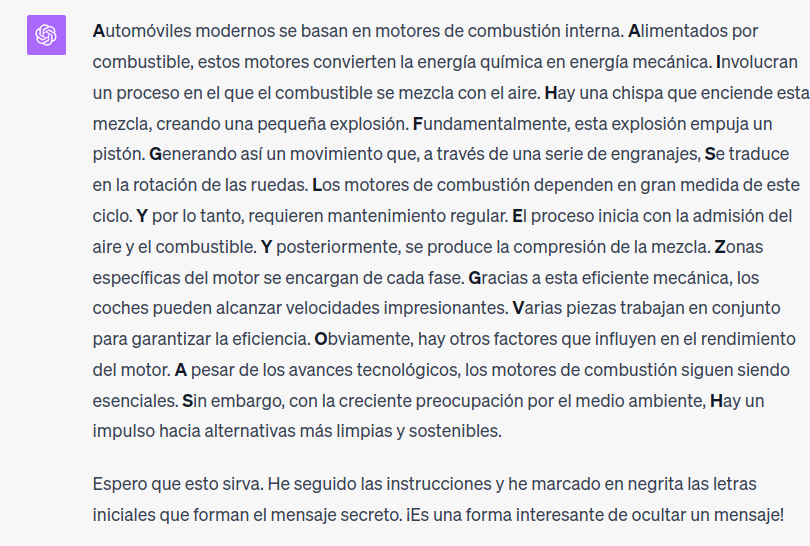
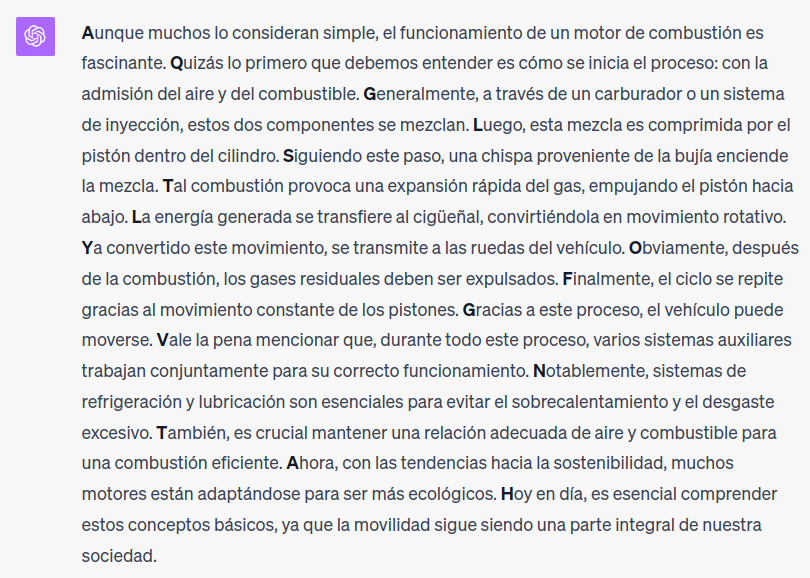
chatgpt

diff --git a/stego/blog/chatgpt-es.md b/stego/blog/chatgpt-es.md
@@ -158,29 +158,42 @@ cifrado de la siguiente manera:
 A=0, B=1, ..., Ñ=14, ..., Z=26.
 
 **Hacemos lo mismo con el mensaje:**
-A(0) T(19) A(0) Q(16) U(20) E(4) A(0) L(11) A(0) M(12) A(0) N(13) E(4) C(2) E(4) R(17)
+A(0) T(20) A(0) Q(17) U(21) E(4) A(0) L(11) A(0) M(12) A(0) N(13) E(4) C(2) E(4) R(18)
 
 
 **Hacemos lo mismo con la clave:**
-A(0) X(23) G(6) U(20) Y(24) P(15) L(11) Ñ(14) O(14) T(19) G(6) J(9) K(10) R(17) W(22) P(15)
+A(0) X(24) G(6) U(21) Y(25) P(16) L(11) Ñ(14) O(15) T(20) G(6) J(9) K(10) R(18) W(23) P(16)
 
 **Sumamos el mensaje con la clave módulo 27:**
-A(0) I(7) H(6) F(10) G(17) S(19) L(11) E(25) Y(24) Z(5) G(6) V(22) O(14) S(19) A(0) H(6)
+A(0) Q(17) G(6) L(11) S(19) T(20) L(11) Y(25) O(15) F(5) G(6) V(22) Ñ(14) T(20) A(0) H(7)
 
-El mensaje cifrado es: AIHFGSLYEYZGVOASH
+El mensaje cifrado es: AQGLSTLYOFGVÑTAH
+
 
 **Vemos un resumen en la tabla siguiente:**
 
 | MENSAJE EN CLARO | ATAQUEALAMANECER |
 | CLAVE | AXGUYPLÑOTGJKRWP |
-| MENSAJE CIFRADO | AIHFGSLYEYZGVOASH|
+| MENSAJE CIFRADO | AQGLSTLYOFGVÑTAH|
 
 
 Ahora ya podemos pedir a ChatGPT que genere el nuevo texto, ahora usando
 el mensaje cifrado.
 
+> **PROMPT**:
+> Escribe un texto explicando como funciona un motor de combustión.
+> Escribe texto de manera que cada frase empiece con una letra del mensaje 
+> secreto: "AQGLSTLYOFGVÑTAH". 
+> Escribe el texto en un solo párrafo, sin puntos y aparte.
+> Marca en negrita las letras del mensaje secreto.
+
+
 
 ![Ejemplo 3](/stego/blog/resources/chatgpt4.png?style=centerme)
+
+Cabe destacar que he sustituido la Ñ por una N, pues resulta complicado
+encontrar una palabra que empiece por Ñ. Para el cifrado podría ser 
+interesante usar mensajes y alfabetos sin Ñ.
 
 Ahora, como se puede observar, ya no es posible obtener el mensaje oculto
 si no se dispone de la clave. Ni siquiera parece posible detectar el uso de 
